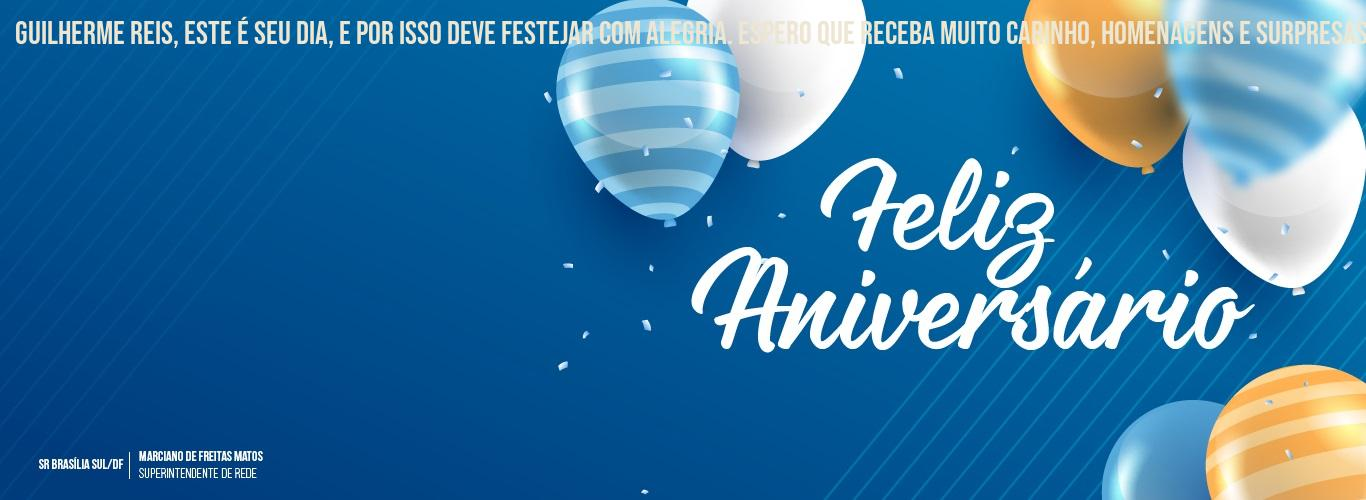
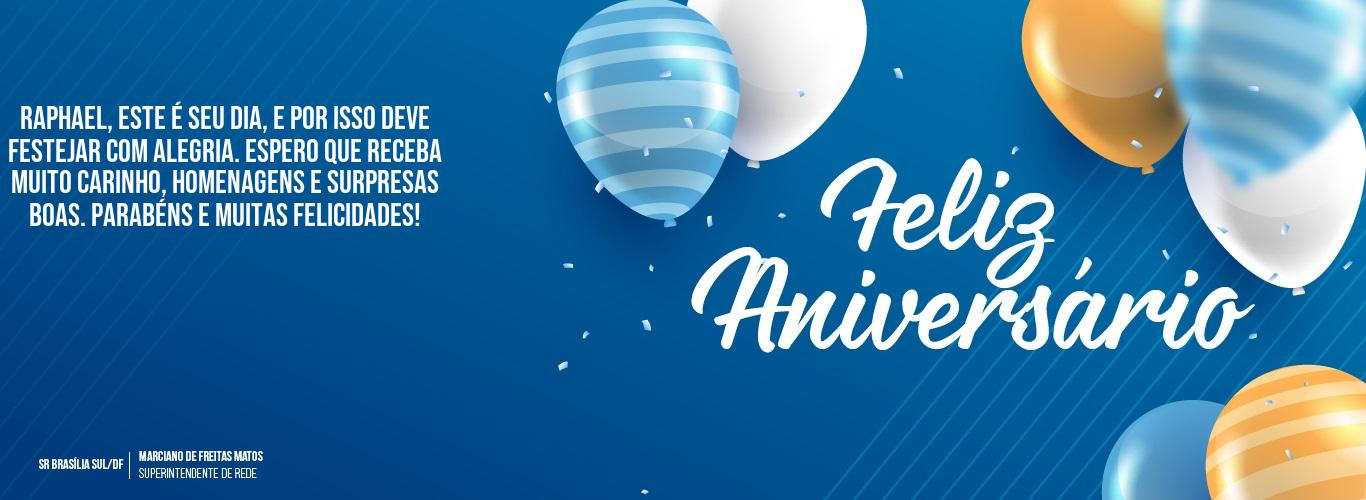
Layout and text wrapping is functional for sending emails

Changed region(s): [[0.0, 0.21, 0.3382, 0.45], [0.0, 0.03, 1.0, 0.09]]

diff --git a/SendEmail.py b/SendEmail.py
@@ -1,5 +1,6 @@
 import win32com.client as client
 from PIL import Image, ImageFont, ImageDraw
+import textwrap
 
 
 outlook = client.Dispatch("Outlook.Application")
@@ -9,13 +10,26 @@ message.To = "arthur.ravin@gmail.com"
 message.BCC = "arthur_ravin@hotmail.com"
 message.Subject = "Feliz Aniversário!"
 
+
 my_image = Image.open(
     "C:\\Users\\Ravin\\Desktop\\send_email_python\\parabensind.jpg")
-title_font = ImageFont.truetype(
+
+title_text = "Raphael, este é seu dia, e por isso deve festejar com alegria. Espero que receba muito carinho, homenagens e surpresas boas. Parabéns e muitas felicidades!"
+lines = textwrap.wrap(title_text, width=40)
+y_text = 100
+
+font = ImageFont.truetype(
     'C:\\Users\\Ravin\\Desktop\\send_email_python\\BebasNeue-Regular.ttf', 32)
-title_text = "Arthur de Castro, este é seu dia, e por isso deve festejar com alegria. Espero que receba muito carinho, homenagens e surpresas boas. Parabéns e muitas felicidades! "
 image_editable = ImageDraw.Draw(my_image)
-image_editable.text((15, 15), title_text, (237, 230, 211), font=title_font)
+
+
+for line in lines:
+    width, height = font.getsize(line)
+    image_editable.text(((450 - width) / 2, y_text),
+                        line, font=font, fill="white")
+    y_text += height
+
+
 my_image.save("result.jpg")
 
 
